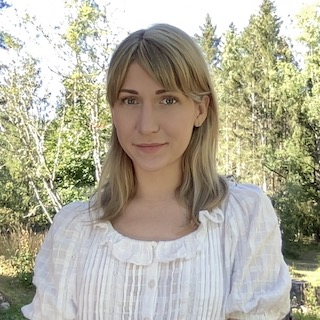
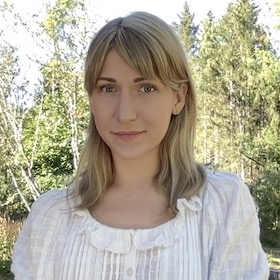
Add header background, crop photo of me, opt CSS

diff --git a/index.html b/index.html
@@ -40,7 +40,7 @@
                 <!-- change h? on these?? -->
                 <h1 class="header-text-name">portfolio: amanda w.</h1>
                 <h1 class="header-text-title">frontend developer</h1>
-                <h1 class="header-text-other-title">+ other title</h1>
+                <h1 class="header-text-other-title">with a fashion background</h1>
             </div>
             <div><img class="profile-image" src="./assets/images/me.jpg" alt="A photo of Amanda">
             </div>
@@ -61,10 +61,10 @@
     <section class="tech page-section">
         <div class="inner-wrapper">
             <h2 class="section-title"><span class="section-title-background">TECH</span></h2>
-            <p class="tech-text"> HTML, CSS, Flexbox, Bootstrap, <span class="tech-text-highlight">JavaScript
-                    ES6</span>, Web
-                Accessibly, API:s, mob-programming,
-                pair-programming, Github.
+            <p class="tech-text"> HTML, CSS, Flexbox, Bootstrap, <span class="highlight">JavaScript
+                    ES6</span>, JSX, <span class="highlight">React</span>, <span class="highlight">React Hooks</span>,
+                <span class="highlight">Redux</span>, Node.js, Mongo
+                DB, Web Accessibly, API:s, mob-programming, pair-programming, Github.
             </p>
         </div>
     </section>
@@ -166,8 +166,8 @@
                         <div class="other-projects-description">
                             <h3 class="other-project-description-title">Guess Who?</h3>
                             <p class="other-project-description-text">A game built in JavaScript
+                                <span class="highlight bold">>></span>
                             </p>
-                            <p class="other-project-description-text-highlight">>></p>
                         </div>
                         <div class="project-tags">
                             <span class="project-tag">HTML5</span>
@@ -182,8 +182,8 @@
                         <div class="other-projects-description">
                             <h3 class="other-project-description-title">Tablebooker</h3>
                             <p class="other-project-description-text">Chat bot build in JavaScript
+                                <span class="highlight bold">>></span>
                             </p>
-                            <p class="other-project-description-text-highlight">>></p>
                         </div>
                         <div class="project-tags">
                             <span class="project-tag">HTML5</span>
@@ -198,8 +198,8 @@
                             <h3 class="other-project-description-title">Dogwalker</h3>
                             <p class="other-project-description-text">A responsive one pager for an imaginary dog
                                 walking business
+                                <span class="highlight bold">>></span>
                             </p>
-                            <p class="other-project-description-text-highlight">>></p>
                         </div>
                         <div class="project-tags">
                             <span class="project-tag">HTML5</span>
@@ -231,7 +231,7 @@
                                 manx yet birman. Ocicat. Norwegian forest cheetah kitty. Abyssinian bobcat grimalkin for
                                 cornish rex bengal for donskoy. Ocelot leopard panther. Leopard leopard thai yet manx.
                                 American bobtail maine coon mouser for american bobtail singapura savannah yet mouser.
-                                <span class="my-thoughts-entry-text-highlight">>></span>
+                                <span class="highlight">>></span>
                             </p>
                         </div>
                     </article>
@@ -251,7 +251,7 @@
                                 munchkin. Ocelot munchkin. Puma savannah yet himalayan. Puma jaguar. Persian turkish
                                 angora
                                 for malkin. Tom. Lynx panther or persian.
-                                <span class="my-thoughts-entry-text-highlight">>></span>
+                                <span class="highlight">>></span>
                             </p>
 
                         </div>
@@ -266,27 +266,26 @@
                     <article class="more-thoughts-entry">
                         <p class="more-thoughts-entry-date">Jun 2021.</p>
                         <p class="more-thoughts-entry-title">Himalayan - abyssinian grimalkin?
+                            <span class="highlight">>></span>
                         </p>
-                        <span class="more-thoughts-entry-highlight">>></span>
                     </article>
                 </a>
                 <a href="#" target="_blank" rel="noopener">
                     <article class="more-thoughts-entry">
                         <p class="more-thoughts-entry-date">Jul 2021.</p>
                         <p class="more-thoughts-entry-title">Kitty persian, tabby yet Persian turkish angora.
+                            <span class="highlight">>></span>
                         </p>
-                        <span class="more-thoughts-entry-highlight">>></span>
                     </article>
                 </a>
                 <a href="#" target="_blank" rel="noopener">
                     <article class="more-thoughts-entry">
                         <p class="more-thoughts-entry-date">Dec 2020.</p>
                         <p class="more-thoughts-entry-title">Scottish fold sphynx or malkin thai tiger, yet burmese.
+                            <span class="highlight">>></span>
                         </p>
-                        <span class="more-thoughts-entry-highlight">>></span>
                     </article>
                 </a>
-
             </div>
         </div>
     </section>
@@ -302,6 +301,7 @@
                         <li>CSS3</li>
                         <li>JavaScript ES6</li>
                         <li>GitHub</li>
+                        <li>Bootstrap</li>
                     </ul>
                 </div>
                 <div class="skill-grid-toolbox">
@@ -309,18 +309,14 @@
                     <ul class="skill-grid-list">
                         <li>Keynote</li>
                         <li>Slack</li>
-                        <li>Placeholder text</li>
-                        <li>Placeholder text</li>
-                        <li>Placeholder text</li>
-                        <li>Placeholder text</li>
                     </ul>
                 </div>
                 <div class="skill-grid-more hidden-on-mobile">
                     <h4 class="skill-grid-title">More</h4>
                     <ul class="skill-grid-list">
-                        <li>Placeholder text</li>
-                        <li>Placeholder text</li>
-                        <li>Placeholder text</li>
+                        <li>Lorem</li>
+                        <li>to the</li>
+                        <li>ipsum</li>
                     </ul>
                 </div>
                 <div class="skill-grid-upcoming">

diff --git a/assets/style.css b/assets/style.css
@@ -13,7 +13,7 @@ a:active {
 }
 
 :focus {
-  outline-color: blue;
+  outline-color: black;
   outline-width: medium;
   outline-style: solid;
   outline-offset: 4px;
@@ -56,13 +56,21 @@ a:active {
   color: hotpink;
 }
 
+.highlight {
+  color: hotpink;
+}
+
+.bold {
+  font-weight: 700;
+}
+
 /* HEADER */
 
 .main-header {
   width: 100%;
   height: 475px;
-  background: url(http://placekitten.com/500/500);
-  background-color: hotpink;
+  background: url("./images/header.jpg");
+  background-color: pink;
   position: relative;
 }
 
@@ -96,6 +104,7 @@ a:active {
   height: 20px;
   align-self: center;
   justify-self: center;
+  color: white;
 }
 
 .header-text-wrapper {
@@ -125,9 +134,10 @@ a:active {
   font-family: "Montserrat", sans-serif;
   text-transform: lowercase;
   color: white;
-  font-size: 25px;
+  font-size: 24px;
   padding-top: 10px;
   font-weight: 700;
+  line-height: 1.2;
 }
 
 .profile-image {
@@ -137,7 +147,7 @@ a:active {
   border-radius: 50%;
   width: 150px;
   height: 150px;
-  border: 2px solid whitesmoke;
+  border: 3px solid whitesmoke;
   overflow: hidden;
 }
 
@@ -185,10 +195,6 @@ a:active {
   font-size: 16px;
   text-align: center;
   line-height: 1.6;
-}
-
-.tech-text-highlight {
-  color: hotpink;
 }
 
 /* PROJECTS */
@@ -308,12 +314,6 @@ a:active {
   display: inline;
 }
 
-.other-project-description-text-highlight {
-  color: hotpink;
-  font-weight: 700;
-  display: inline;
-}
-
 /* tags */
 
 .project-tags {
@@ -392,11 +392,7 @@ a:active {
 .my-thoughts-entry-text {
   font-family: "Roboto", sans-serif;
   line-height: 1.6;
-  padding-top: 4px;
-}
-
-.my-thoughts-entry-text-highlight {
-  color: hotpink;
+  padding-top: 2px;
 }
 
 /* more thoughts */
@@ -423,13 +419,6 @@ a:active {
 }
 
 .more-thoughts-entry-title {
-  display: inline;
-  font-family: "Roboto", sans-serif;
-}
-
-.more-thoughts-entry-highlight {
-  color: hotpink;
-  font-weight: 700;
   display: inline;
   font-family: "Roboto", sans-serif;
 }
@@ -563,7 +552,6 @@ a:active {
   .main-header {
     height: 425px;
     /* change background for tablet and desktop */
-    background: url(http://placekitten.com/2500/700);
   }
 
   .header-text-wrapper {
